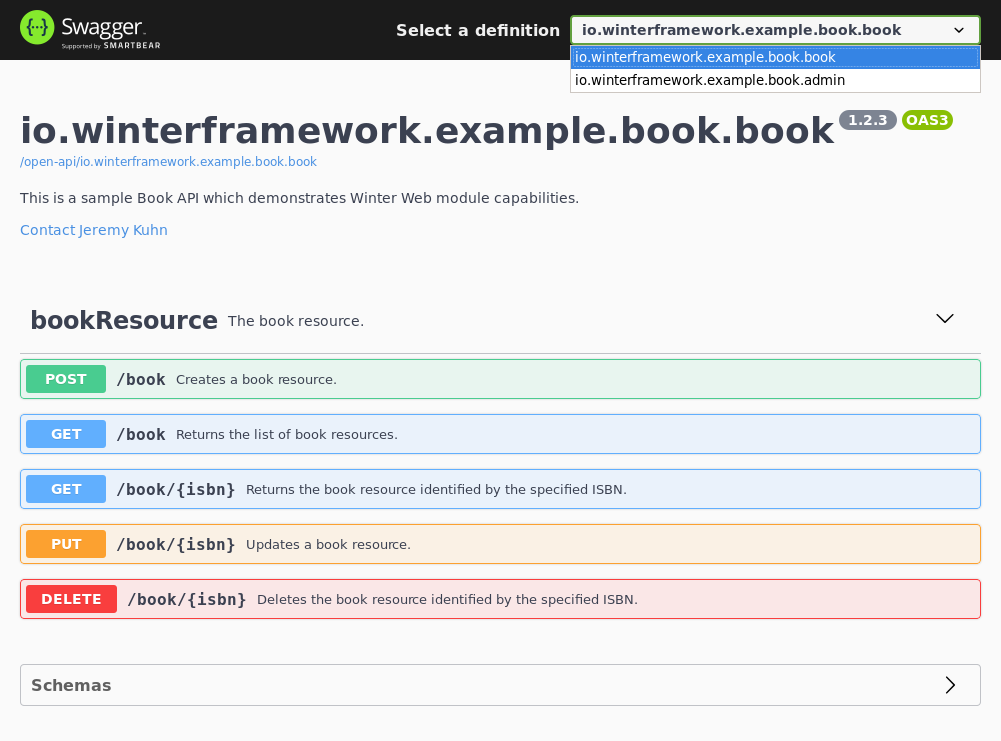
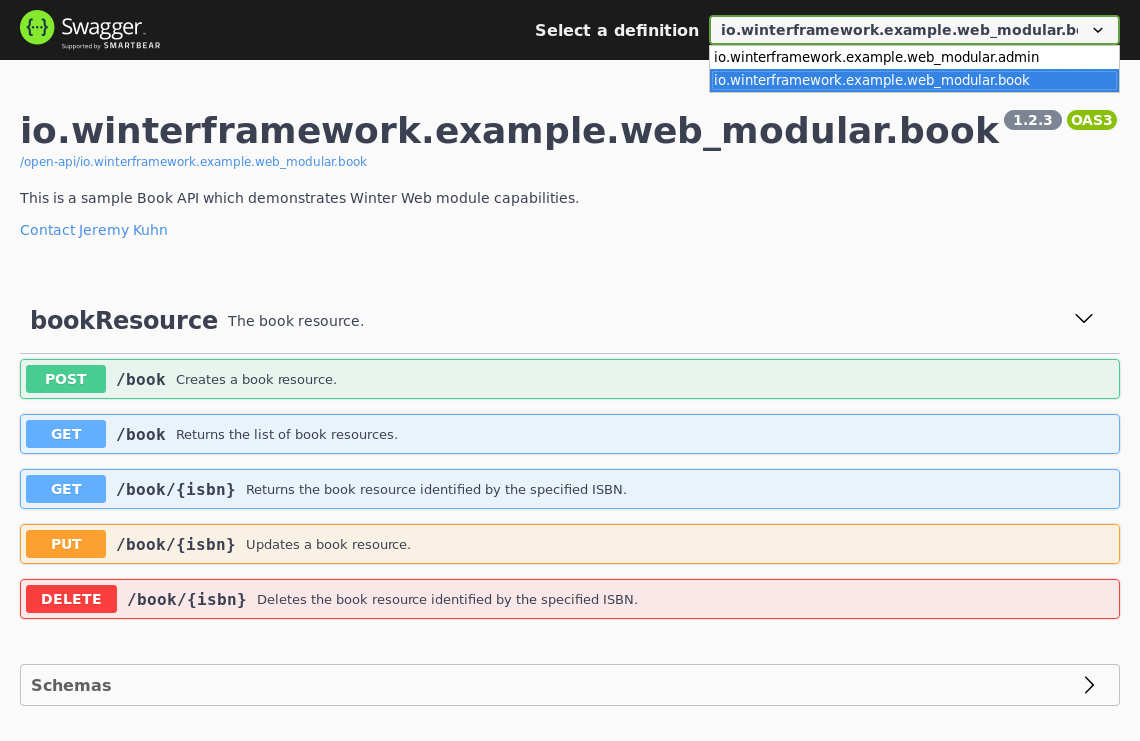
Update documentation

diff --git a/doc/reference-guide.md b/doc/reference-guide.md
@@ -1068,9 +1068,9 @@ RedisClient redisClient = ...
 RedisConfigurationSource source = new RedisConfigurationSource(redisClient);
 
 source
-    .set("db.url", "jdbc:oracle:thin:@dev.db.server:1521:sid").withParameters("env", "dev").and()
-    .set("db.url", "jdbc:oracle:thin:@prod_eu.db.server:1521:sid").withParameters("env", "prod", "zone", "eu").and()
-    .set("db.url", "jdbc:oracle:thin:@prod_us.db.server:1521:sid").withParameters("env", "prod", "zone", "us")
+    .set("db.url", "jdbc:oracle:thin:@dev.db.server:1521:sid").withParameters("environment", "dev").and()
+    .set("db.url", "jdbc:oracle:thin:@prod_eu.db.server:1521:sid").withParameters("environment", "prod", "zone", "eu").and()
+    .set("db.url", "jdbc:oracle:thin:@prod_us.db.server:1521:sid").withParameters("environment", "prod", "zone", "us")
     .execute()
     .blockLast();
     
@@ -1078,8 +1078,8 @@ source
 source.activate().block();
 
 // Activate working revision for dev environment and prod environment independently
-source.activate("env", "dev").block();
-source.activate("env", "prod").block();
+source.activate("environment", "dev").block();
+source.activate("environment", "prod").block();
 ```
 
 It is also possible to fallback to a particular revision by specifying it in the `activate()` method:
@@ -1101,14 +1101,16 @@ The property returned for a configuration query key then depends on two factors:
 
 The `CompositeConfigurationSource` resolves a configuration property by querying its sources in sequence from the highest priority to the lowest. It relies on a `CompositeConfigurationStrategy` to determine at each round which queries to execute and retain the best matching property from the results. The best matching property is the property whose key is the closest to the original configuration query key according to a metric implemented in the strategy. The algorithm stops when an exact match is found or when there's no more configuration source to query.
 
-The `DefaultCompositeConfigurationStrategy` defines the default strategy implementation. It determines the best matching property for a given original query by prioritizing query parameters from left to right. If we consider query key `property[p1=v1,...pn=vn]`, it supersedes key `property[p1=v1,...pn-1=vn-1]` which supersedes key `property[p1=v1,...pn-2=vn-2]`... which supersedes key `property[]`. As a result, an original query with `n` parameters results in `n+1` queries being actually executed if no property was retained in previous rounds and `n-p` queries if a property with p parameters (p<n) was retained in previous rounds. The order into which parameters are specified in the original query is then significant: `property[p1=v1,p2=v2] != property[p2=v2,p1=v1]`.
+The `DefaultCompositeConfigurationStrategy` defines the default strategy implementation. It determines the best matching property for a given original query by prioritizing query parameters from left to right: the best matching property is the one matching the most continuous parameters from right to left. In practice, if we consider query key `property[p1=v1,...pn=vn]`, it supersedes key `property[p2=v2,...pn=vn]` which supersedes key `property[p3=v3,...pn=vn]`... which supersedes key `property[]`. As a result, an original query with `n` parameters results in `n+1` queries being actually executed if no property was retained in previous rounds and `n-p` queries if a property with p parameters (p<n) was retained in previous rounds. The order into which parameters are specified in the original query is then significant: `property[p1=v1,p2=v2] != property[p2=v2,p1=v1]`.
+
+When defining configuration parameters, we should then order them from the most specific to the most general when querying a composite source. For example, the `node` parameter which is more specific than the `zone` parameter should come first then the `zone` parameter which is more specific than the `environment` parameter should come next and finally the `environment` parameter which is the most general should come last.
 
 For instance, we can consider two parameterized configuration sources: `source1` and `source2`.
 
 `source1` holds the following properties:
 
 - `server.url[]=null`
-- `server.url[environment="production", zone="US"]="https://prod.us"`
+- `server.url[zone="US", environment="production"]="https://prod.us"`
 - `server.url[zone="EU"]="https://default.eu"`
 
 `source2` holds the following properties:
@@ -1127,7 +1129,7 @@ CompositeConfigurationSource source = new CompositeConfigurationSource(List.of(s
 
 source                                                         // 1
     .get("server.url")
-    .withParameters("environment", "production", "zone", "US")
+    .withParameters("zone", "US", "environment", "production")
     .execute()
     ...
 
@@ -1145,12 +1147,12 @@ source                                                         // 3
 
 source                                                         // 4
     .get("server.url")
-    .withParameters("environment", "production", "zone", "EU")
+    .withParameters("zone", "EU", "environment", "production")
     .execute()...
 
 source                                                         // 5
     .get("server.url")
-    .withParameters("zone", "EU", "environment", "production")
+    .withParameters("environment", "production", "zone", "EU")
     .execute()
     ...
     
@@ -1161,8 +1163,8 @@ In the example above:
 1. `server.url[environment="production",zone="US"]` is exactly defined in `source1` => `https://prod.us` defined in `source1` is returned
 2. `server.url[environment="test"]` is not defined in `source1` but exactly defined in `source2` => `https://test`  defined in `source2` is returned
 3. Although `server.url[]` is defined in both `source1` and `source2`, `source1` has the highest priority and therefore => `null` is returned
-4. There is no exact match for `server.url[environment="production",zone="EU"]` in both `source1` and `source2`, the priority is given to the parameters from left to right, the property matching `server.url[environment="production"]` shall be returned => `https://prod` defined in `source2` is returned
-5. Here we simply change the order of the parameters in the previous query, again the priority is given to parameters from left to right, since there is no match for `server.url[zone="EU",environment="production"]`, `server.url[zone="EU"]` is considered => `https://default.eu` defined in `source1` is returned
+4. There is no exact match for `server.url[zone="EU", environment="production"]` in both `source1` and `source2`, the priority is given to the parameters from left to right, the property matching `server.url[environment="production"]` shall be returned => `https://prod` defined in `source2` is returned
+5. Here we've simply changed the order of the parameters in the previous query, again the priority is given to parameters from left to right, since there is no match for `server.url[environment="production", zone="EU"]`, `server.url[zone="EU"]` is considered => `https://default.eu` defined in `source1` is returned
 
 As you can see, the order into which parameters are specified in a query is significant and different results might be returned.
 
@@ -2995,15 +2997,9 @@ The content negotiation is similar to the one described in the [produce routing 
 
 The Web router then selects the route whose produced language tag matches the language range with the highest priority.
 
-Now unlike produce routing rule, the server returns a response even if content negotiation did not give any match by selecting the first route defined or a default route if there is one as suggested by RFC 7231.
+As for the produce routing rule, if there is no route defined with a language tag that matches any of the acceptable language ranges, then a (406) not acceptable error is returned. However, unlike the produce routing rule, a default route can be defined to handle such unmatched exchanges.
 
-For instance, a request with the following `accept-language` header field is matched by the route that was defined first and a document in English shall be returned:
-
-```
-accept-language: it-IT
-```
-
-Now if we add a default route, it will be matched if the router was unable to find a language match:
+For instance, we can add the following default route to the router:
 
 ```java
 router
@@ -3012,6 +3008,12 @@ router
         .handler(exchange -> {
             ...
         });
+```
+
+A request with the following `accept-language` header field is then matched by the default route:
+
+```
+accept-language: it-IT
 ```
 
 #### Error routing
@@ -4219,32 +4221,31 @@ The module descriptors for each of these modules should look like:
 
 ```java
 @io.winterframework.core.annotation.Module( excludes = { "io.winterframework.mod.web" } )
-module io.winterframework.example.book.admin {
+module io.winterframework.example.web_modular.admin {
     requires io.winterframework.core;
     requires io.winterframework.mod.web;
 
-    exports io.winterframework.example.book.admin to io.winterframework.example.book.app;
-    exports io.winterframework.example.book.admin.dto to com.fasterxml.jackson.databind;
+    exports io.winterframework.example.web_modular.admin to io.winterframework.example.web_modular.app;
 }
 ```
 ```java
 @io.winterframework.core.annotation.Module( excludes = { "io.winterframework.mod.web" } )
-module io.winterframework.example.book.book {
+module io.winterframework.example.web_modular.book {
     requires io.winterframework.core;
     requires io.winterframework.mod.web;
     
-    exports io.winterframework.example.book.book to io.winterframework.example.book.app;
-    exports io.winterframework.example.book.book.dto to com.fasterxml.jackson.databind;
+    exports io.winterframework.example.web_modular.book to io.winterframework.example.web_modular.app;
+    exports io.winterframework.example.web_modular.book.dto to com.fasterxml.jackson.databind;
 }
 ```
 ```java
 @io.winterframework.core.annotation.Module
-module io.winterframework.example.book.app {
+module io.winterframework.example.web_modular.app {
     requires io.winterframework.mod.boot;
     requires io.winterframework.mod.web;
     
-    requires io.winterframework.example.book.admin;
-    requires io.winterframework.example.book.book;
+    requires io.winterframework.example.web_modular.admin;
+    requires io.winterframework.example.web_modular.book;
 }
 ```
 
@@ -4254,8 +4255,8 @@ The *admin* and *book* modules should compile just fine resulting in two Web rou
 
 ```java
 @io.winterframework.core.annotation.Module
-@io.winterframework.core.annotation.Wire(beans="io.winterframework.example.book.app:webRouterConfigurer", into="io.winterframework.mod.web:webRouterConfigurer")
-module io.winterframework.example.book.app {
+@io.winterframework.core.annotation.Wire(beans="io.winterframework.example.web_modular.app:webRouterConfigurer", into="io.winterframework.mod.web:webRouterConfigurer")
+module io.winterframework.example.web_modular.app {
     ...
 }
 ```
@@ -4400,12 +4401,12 @@ For instance, we can describe the API exposed by the *book* module in the module
  * @version 1.2.3
  */
 @io.winterframework.core.annotation.Module( excludes = { "io.winterframework.mod.web" } )
-module io.winterframework.example.book.book {
+module io.winterframework.example.web_modular.book {
     requires io.winterframework.core;
     requires io.winterframework.mod.web;
     
-    exports io.winterframework.example.book.book to io.winterframework.example.book.app;
-    exports io.winterframework.example.book.book.dto to com.fasterxml.jackson.databind;
+    exports io.winterframework.example.web_modular.book to io.winterframework.example.web_modular.app;
+    exports io.winterframework.example.web_modular.book.dto to com.fasterxml.jackson.databind;
 }
 ```
 
@@ -4415,18 +4416,18 @@ If we build and run the [modular book application](#composite-web-module) and ac
 
 <img src="img/swaggerUI_root.png" style="display: block; margin: 2em auto;"/>
 
-It is also possible to target a single specification by specifying the module name in the URI, for instance `http://locahost:8080/open-api/io.winterframework.example.book.admin`:
+It is also possible to target a single specification by specifying the module name in the URI, for instance `http://locahost:8080/open-api/io.winterframework.example.web_modular.book`:
 
 <img src="img/swaggerUI_module.png" style="display: block; margin: 2em auto;"/>
 
 Finally, Open API specifications formatted in [YAML](https://en.wikipedia.org/wiki/YAML) can be retrieved as follows:
 
 ```
-$ curl http://locahost:8080/open-api/io.winterframework.example.book.admin
+$ curl http://locahost:8080/open-api/io.winterframework.example.web_modular.admin
 	
 openapi: 3.0.3
 info:
-    title: 'io.winterframework.example.book.admin'
+    title: 'io.winterframework.example.web_modular.admin'
     version: ''
 ...
 ```

diff --git a/README.md b/README.md
@@ -40,7 +40,11 @@ public class MainController {
 }
 ```
 
-Please refer to [Winter distribution](https://github.com/winterframework-io/winter-dist) for detailed installation instructions. Comprehensive reference documentations are available for [Winter core](https://github.com/winterframework-io/winter/tree/master/doc/reference-guide.md) and [Winter modules](https://github.com/winterframework-io/winter-mods/tree/master/doc/reference-guide.md)
+Please refer to [Winter distribution](https://github.com/winterframework-io/winter-dist) for detailed installation instructions. 
+
+Comprehensive reference documentations are available for [Winter core](https://github.com/winterframework-io/winter/tree/master/doc/reference-guide.md) and [Winter modules](https://github.com/winterframework-io/winter-mods/tree/master/doc/reference-guide.md).
+
+Several example projects showing various features are also available in the [Winter example project](https://github.com/winterframework-io/winter-examples). They can also be used as templates to start new Winter application or component projects.
 
 Feel free to report bugs and feature requests in GitHub's issue tracking system if you ran in any issue or wish to see some new functionalities implemented in the framework.
 
